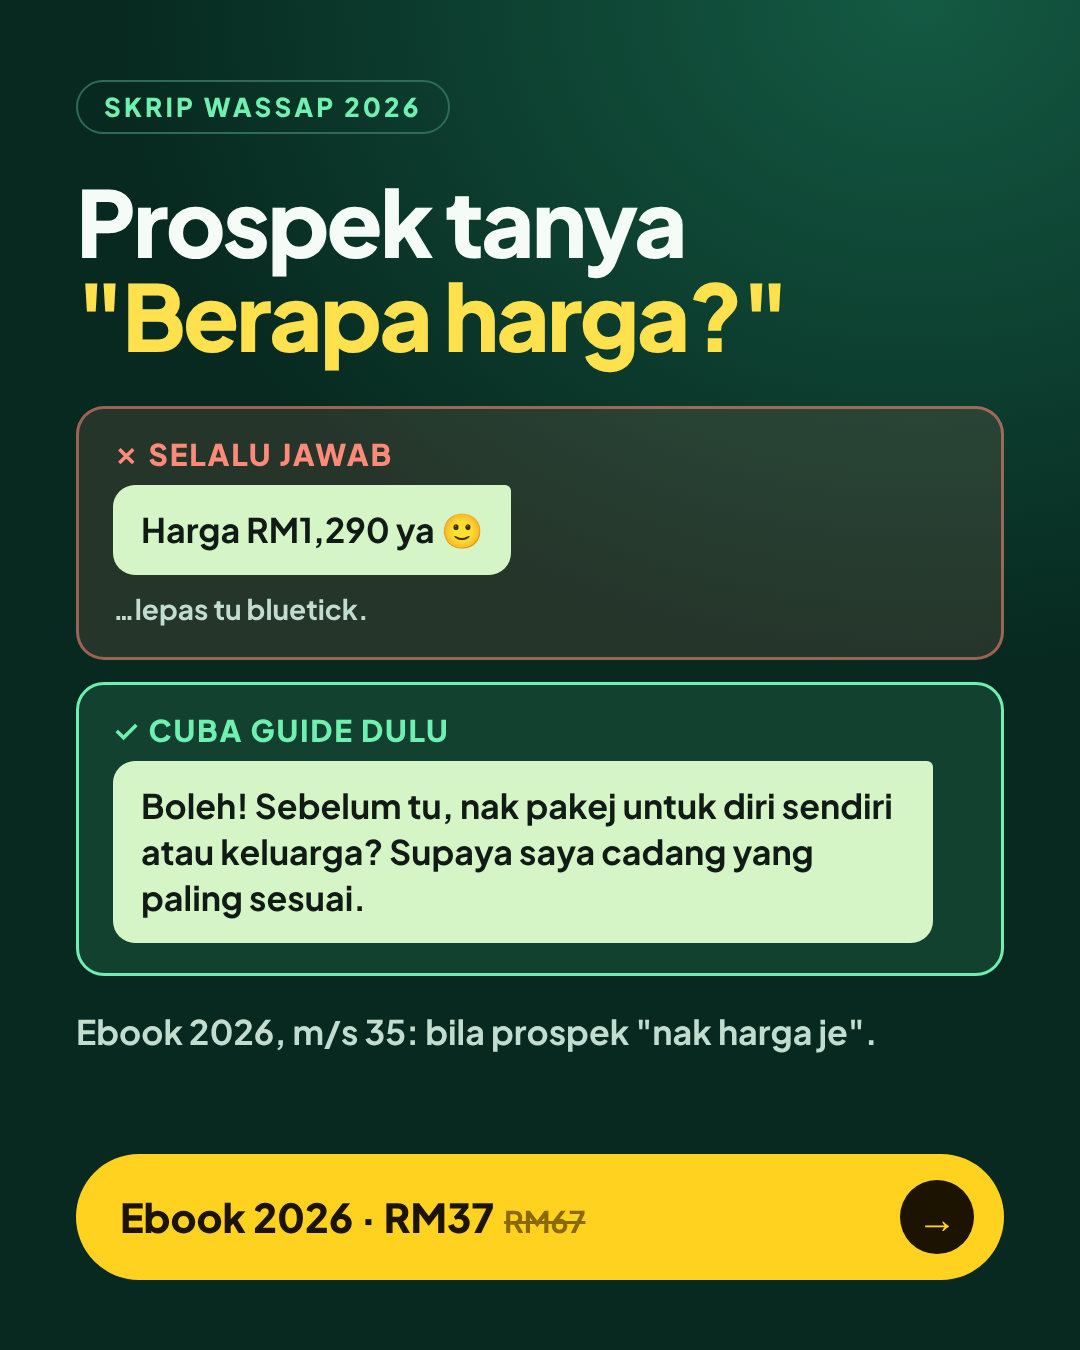
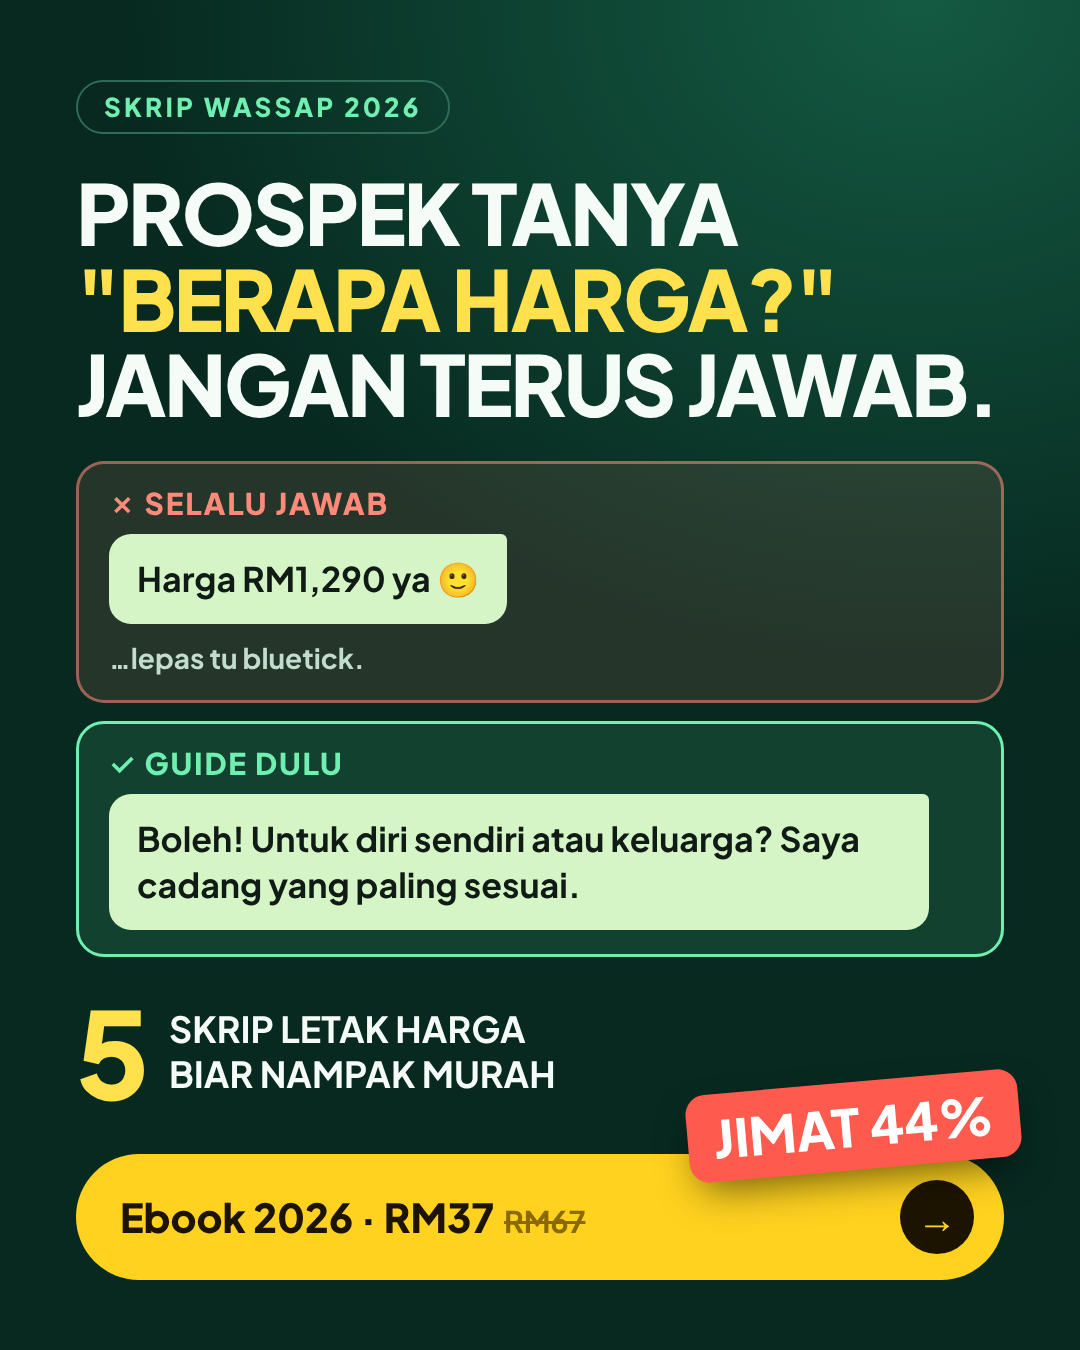
Punchier caps headlines with numbers on posters E, F, G
Claude-Session: https://claude.ai/code/session_01TPky1w5Smp95p1hdnhCb8t

Changed region(s): [[0.0611, 0.1244, 0.9472, 0.7156], [0.0611, 0.7467, 0.9472, 0.9022], [0.9167, 0.6844, 0.9472, 0.7156]]

diff --git a/ads/creative/iklan-2.html b/ads/creative/iklan-2.html
@@ -39,42 +39,53 @@ h1{font-weight:800;letter-spacing:-.03em;line-height:1.02}
 .cash i{font-style:normal;width:64px;height:64px;border-radius:50%;display:grid;place-items:center;font-size:34px;flex:none}
 </style></head><body>
 
+<style>
+h1{text-transform:uppercase}
+.badge{position:absolute;right:60px;bottom:180px;background:#ff5a4e;color:#fff;font:800 52px/1 "Plus Jakarta Sans";padding:18px 26px;border-radius:20px;transform:rotate(-5deg);box-shadow:0 18px 40px -12px rgb(0 0 0 / .6)}
+.stat{display:flex;align-items:center;gap:24px;margin-top:34px}
+.stat b{font:800 120px/1 "Plus Jakarta Sans";color:#ffe14d;letter-spacing:-.04em}
+.stat span{font:700 36px/1.25 "Plus Jakarta Sans";color:#f5fbf7;text-transform:uppercase}
+</style>
+
 <!-- E: NAK HARGA JE -->
 <section class="ad" id="e">
   <span class="tag">Skrip Wassap 2026</span>
-  <h1 style="font-size:92px;margin-top:40px">Prospek tanya<br><span class="y">"Berapa harga?"</span></h1>
-  <div style="display:flex;flex-direction:column;gap:22px;margin-top:44px">
-    <div class="wrong"><span class="lbl r">✗ Selalu jawab</span><div class="bub out" style="align-self:flex-start">Harga RM1,290 ya 🙂</div><span class="src">…lepas tu bluetick.</span></div>
-    <div class="right"><span class="lbl g">✓ Cuba guide dulu</span><div class="bub out" style="align-self:flex-start;max-width:820px">Boleh! Sebelum tu, nak pakej untuk diri sendiri atau keluarga? Supaya saya cadang yang paling sesuai.</div></div>
+  <h1 style="font-size:84px;margin-top:36px">Prospek tanya<br><span class="y">"Berapa harga?"</span><br>Jangan terus jawab.</h1>
+  <div style="display:flex;flex-direction:column;gap:18px;margin-top:34px">
+    <div class="wrong" style="padding:24px 30px"><span class="lbl r">✗ Selalu jawab</span><div class="bub out" style="align-self:flex-start">Harga RM1,290 ya 🙂</div><span class="src">…lepas tu bluetick.</span></div>
+    <div class="right" style="padding:24px 30px"><span class="lbl g">✓ Guide dulu</span><div class="bub out" style="align-self:flex-start;max-width:820px">Boleh! Untuk diri sendiri atau keluarga? Saya cadang yang paling sesuai.</div></div>
   </div>
-  <p class="src" style="margin-top:34px;font-size:34px">Ebook 2026, m/s 35: bila prospek "nak harga je".</p>
+  <div class="stat"><b>5</b><span>skrip letak harga<br>biar nampak murah</span></div>
   <div class="cta"><span>Ebook 2026 · RM37<s>RM67</s></span><span class="arr">→</span></div>
+  <div class="badge">JIMAT 44%</div>
 </section>
 
 <!-- F: PENANGGUHAN -->
 <section class="ad" id="f">
   <span class="tag">Fast Action Bonus</span>
-  <div style="display:flex;flex-direction:column;gap:20px;margin-top:50px;width:640px">
+  <h1 style="font-size:150px;margin-top:30px;line-height:.95"><span class="y">3 hari</span><br>bluetick?</h1>
+  <div style="display:flex;flex-direction:column;gap:18px;margin-top:40px;width:640px">
     <div class="bub in" style="max-width:640px">Okay sis, nanti saya tanya husband dulu ya 🙏</div>
     <div class="bub in" style="color:#7a8a82;font-style:italic">✓✓ dibaca · 3 hari lepas</div>
   </div>
-  <h1 style="font-size:84px;margin-top:60px">Musuh utama anda<br>bukan pesaing.<br><span class="y">Tapi PENANGGUHAN.</span></h1>
-  <p class="src" style="margin-top:34px;font-size:34px">Ebook 2026, m/s 67: cara buat prospek "laju" bayar.</p>
-  <img class="cover" src="../../assets/covers/ebook-2026.jpg" style="right:60px;top:70px;width:220px;transform:rotate(6deg)">
+  <p style="font:800 54px/1.15 'Plus Jakarta Sans';margin-top:44px;text-transform:uppercase;letter-spacing:-.02em">Musuh anda<br>bukan pesaing.<br><span class="y">Tapi penangguhan.</span></p>
+  <img class="cover" src="../../assets/covers/ebook-2026.jpg" style="right:60px;top:490px;width:200px;transform:rotate(6deg)">
   <div class="cta"><span>Ebook 2026 · RM37<s>RM67</s></span><span class="arr">→</span></div>
+  <div class="badge">JIMAT 44%</div>
 </section>
 
 <!-- G: IKLAN BUKAN TONGKAT SAKTI -->
 <section class="ad" id="g">
   <span class="tag">Untuk owner yang run ads</span>
-  <h1 style="font-size:96px;margin-top:40px">Iklan bukan<br><span class="y">tongkat sakti.</span></h1>
-  <div class="cash">
+  <h1 style="font-size:120px;margin-top:36px;line-height:.98">Bajet ads <span class="y">2X</span>.<br>Closing <span class="r">+0%</span>?</h1>
+  <div class="cash" style="margin-top:44px">
     <div><i style="background:rgb(255 138 122 / .2)">💸</i><span>Bajet ads naik</span></div>
     <div><i style="background:rgb(255 138 122 / .2)">📥</i><span>Leads masuk WhatsApp</span></div>
     <div><i style="background:rgb(255 138 122 / .2)">😶</i><span class="r">Tapi closing tetap sama</span></div>
   </div>
-  <p style="font:700 40px/1.35 'Plus Jakarta Sans';margin-top:54px;color:#c2dccf">Ads cuma booster. Kalau skrip &amp; follow up lemah, <span class="y">ads cuma buat lebih ramai orang nampak kelemahan tu.</span></p>
-  <img class="cover" src="../../assets/covers/ebook-2026.jpg" style="right:90px;bottom:185px;width:190px;transform:rotate(6deg)">
+  <p style="font:800 50px/1.15 'Plus Jakarta Sans';margin-top:48px;text-transform:uppercase;letter-spacing:-.02em;max-width:640px">Iklan bukan<br><span class="y">tongkat sakti.</span></p>
+  <img class="cover" src="../../assets/covers/ebook-2026.jpg" style="right:90px;bottom:300px;width:190px;transform:rotate(6deg)">
   <div class="cta"><span>Ebook 2026 · RM37<s>RM67</s></span><span class="arr">→</span></div>
+  <div class="badge">JIMAT 44%</div>
 </section>
 </body></html>
